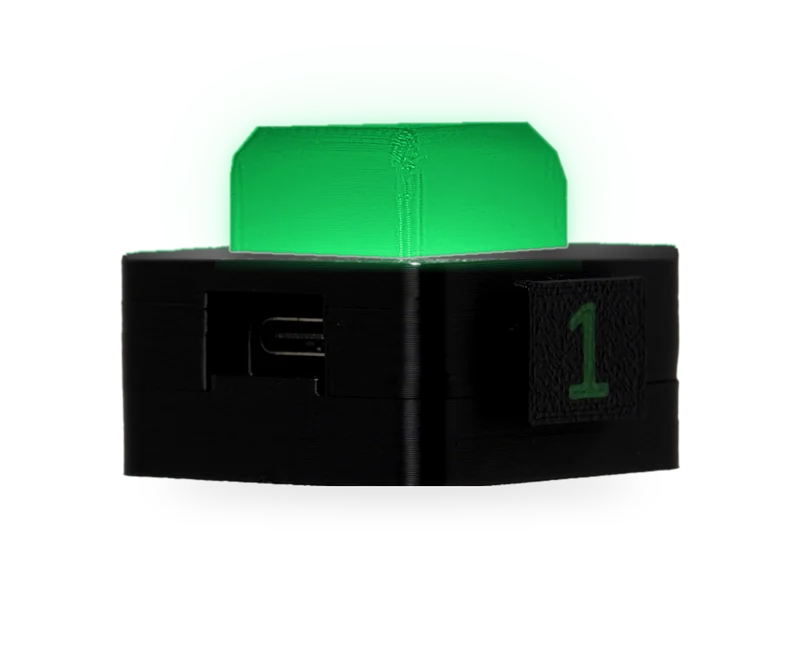
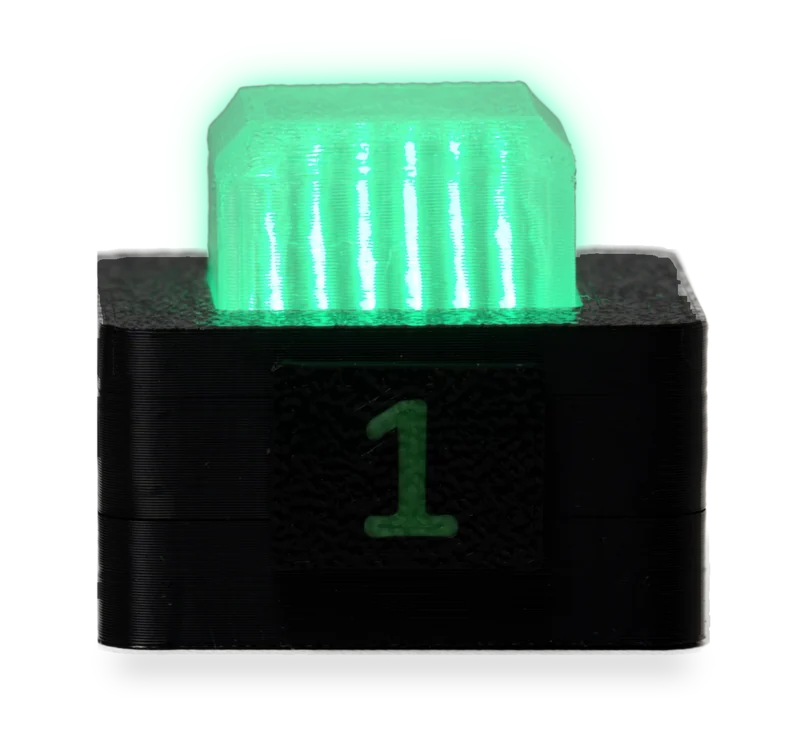
The Cue 360 photos are real lit shots now: the room-lit and LED-only frames of one exposure added together, no cable

diff --git a/shop/index.html b/shop/index.html
@@ -54,14 +54,14 @@
   </div>
   <div class="kits">
     <article class="kit" data-rise>
-      <div class="pair"><img class="photo" src="/static/photos/lite-program.webp" alt="" width="730" height="739" loading="lazy"><span class="plus" aria-hidden="true">+</span><img class="photo" src="/static/photos/360-program.webp" alt="" width="800" height="661" loading="lazy"></div>
+      <div class="pair"><img class="photo" src="/static/photos/lite-program.webp" alt="" width="730" height="739" loading="lazy"><span class="plus" aria-hidden="true">+</span><img class="photo" src="/static/photos/360-program.webp?v=2" alt="" width="800" height="751" loading="lazy"></div>
       <h3>Camera kit</h3>
       <p>Cue Lite and Cue 360.</p>
       <p class="price">$139 <span class="save">Save $19</span></p>
       <a class="pill" data-buy="camera" href="#signup">Pre-order</a>
     </article>
     <article class="kit" data-rise style="--i:1">
-      <div class="pair"><img class="photo" src="/static/photos/cue-dock.webp" alt="" width="1000" height="1147" loading="lazy"><span class="plus" aria-hidden="true">+</span><img class="photo" src="/static/photos/360-program.webp" alt="" width="800" height="661" loading="lazy"></div>
+      <div class="pair"><img class="photo" src="/static/photos/cue-dock.webp" alt="" width="1000" height="1147" loading="lazy"><span class="plus" aria-hidden="true">+</span><img class="photo" src="/static/photos/360-program.webp?v=2" alt="" width="800" height="751" loading="lazy"></div>
       <h3>Rig kit</h3>
       <p>Downstage Cue and Cue 360.</p>
       <p class="price">$169 <span class="save">Save $29</span></p>
@@ -102,7 +102,7 @@
       <p class="spec"><b>USB-C power<sup class="fn"><a href="#fn-5" aria-label="Note 5">5</a></sup></b>A USB-C charger or power bank. Built-in backup battery: about 1 h 20 min.</p>
     </div>
     <div class="col" data-rise style="--i:2">
-      <img class="photo" src="/static/photos/360-program.webp" alt="Cue 360" width="800" height="661" loading="lazy">
+      <img class="photo" src="/static/photos/360-program.webp?v=2" alt="Cue 360" width="800" height="751" loading="lazy">
       <h3>Cue 360</h3>
       <p class="lead">The talent's light.</p>
       <p class="price">$59</p>
